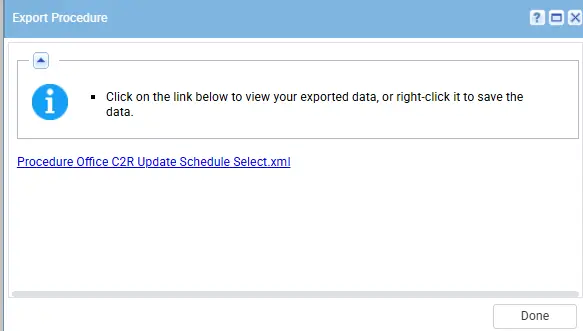
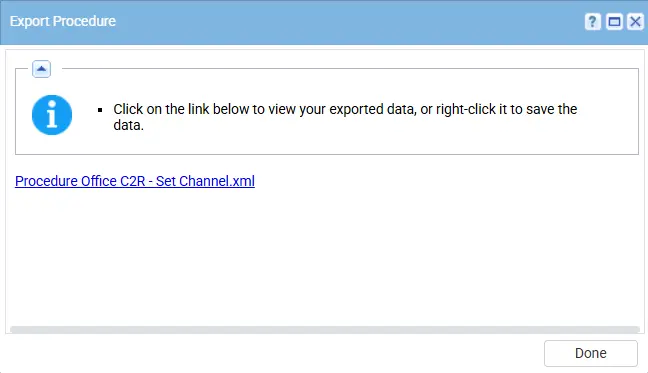
QA - Update
Audited the changes and fixed the document
Updated them with latest images and correct names
Added Solution URL
Updated solution document to show info about CF

diff --git a/docs/vsa/procedures/office-c2r-set-channel.md b/docs/vsa/procedures/office-c2r-set-channel.md
@@ -12,44 +12,42 @@ unlisted: false
 
 ## Summary
 
-This document provides a detailed guide on how to set the Microsoft Update Channel for a Click2Run Office installation on an endpoint using an agent procedure that contains a PS1 and it will ask for the variable at the scritp run time. It includes a summary, example agent procedure logs, and expected output for successful execution.
+This document provides a detailed guide on how to set the Microsoft Update Channel for a Click2Run Office installation on an endpoint using an agent procedure that contains a PS1 and it will ask for the variable at the script run time. 
 
 
 ## Dependencies
 
-PowerShell 5.0+
-PS1
-Custom field
-
-[cpval office channel status](/docs/880a8d01-fc10-4ea9-94d8-7b2bb87c01a5)
+- PowerShell 5.0+
+- [Custom Field - cPVAL Office Channel Status](/docs/880a8d01-fc10-4ea9-94d8-7b2bb87c01a5)
+- [Solution - Microsoft365 Click-to-Run Solution](/docs/f8deaddc-02c1-492d-b9dc-381a653de0e5) 
 
 ## Process
 
-This script will modify the registry to set the Update Channel for Microsoft 365 products to the value specified in the variable(Beta Channel OR Current Channel OR Monthly Enterprise Channel OR Semi-Annual Enterprise Channel and None) and at the time of script execution on the VSA agent procedure, it will ask for the required channel settings and then it will check the current configured channel and update the result into the Custom field.
+This script will modify the registry to set the Update Channel for Microsoft 365 products to the value specified in the variable(*Beta Channel* OR *Current Channel* OR *Monthly Enterprise Channel* OR *Semi-Annual Enterprise Channel* and *None*). At the time of script execution on the VSA agent procedure, it will ask for the required channel settings and will check the current configured channel. It will then update the result into the custom field accordingly.
 
 
 ## Implementation
 
 1. Export the agent procedure from ProVal's VSA RMM instance.  
-   **Name:** Office C2R Update Channel Status 
-   ![Image](../../../static/img/docs/d401a54a-5bff-4d37-8fdf-001220f73fb5/E.webp)  
+   **Name:** `Office C2R set Channel`   
+   ![Image](../../../static/img/docs/d401a54a-5bff-4d37-8fdf-001220f73fb5/E.webp)    
    The export will download the necessary XML file.  
-   ![Image](../../../static/img/docs/d401a54a-5bff-4d37-8fdf-001220f73fb5/AE.webp)  
+  
    
-2. Import this XML file into the partner's VSA RMM instance.  
-   ![Image](../../../static/img/docs/d401a54a-5bff-4d37-8fdf-001220f73fb5/3.webp) 
+2. Import this XML file into the partner's VSA RMM instance.    
+   ![Image](../../../static/img/docs/d401a54a-5bff-4d37-8fdf-001220f73fb5/3.webp)  
 
-3. Export the PS1 from the Proval Internal VSA
-   ![Image](../../../static/img/docs/d401a54a-5bff-4d37-8fdf-001220f73fb5/51.webp)
+3. Export the PS1 from the ProVal's Internal VSA  
+   ![Image](../../../static/img/docs/d401a54a-5bff-4d37-8fdf-001220f73fb5/51.webp)  
 
-4. Mapped it into the script in the client environment
-   ![Image](../../../static/img/docs/d401a54a-5bff-4d37-8fdf-001220f73fb5/52.webp) 
+4. Mapped it into the script in the client environment  
+   ![Image](../../../static/img/docs/d401a54a-5bff-4d37-8fdf-001220f73fb5/52.webp)   
 
-5. Execute the agent procedure in the partne's VSA RMM and put the channel details that you want to set:
-   ![Image](../../../static/img/docs/d401a54a-5bff-4d37-8fdf-001220f73fb5/Execution.webp)
+5. Execute the agent procedure in the partner's VSA RMM and put the channel details that you want to set:  
+   ![Image](../../../static/img/docs/d401a54a-5bff-4d37-8fdf-001220f73fb5/Execution.webp)  
 
-6. Once the above script will execute then it will check the channel status and update the custom field as well on the machines.
+6. After execution, the script validates the device’s channel status and updates the associated custom field accordingly.  
 
 ## Output
 
-Agent procedure log 
+- Agent procedure log 

diff --git a/docs/vsa/procedures/office-c2r-update.md b/docs/vsa/procedures/office-c2r-update.md
@@ -14,34 +14,33 @@ unlisted: false
 
 This agent procedure is for performing an on-demand update for Click2Run Office installations on endpoints using an agent procedure. It includes example logs, dependencies, and output details to assist in the execution and troubleshooting of the update process.
 
+**Please note it will close all office packages open on the endpoints while performing an update.**
+
 ## Dependencies
 
-PowerShell 5.0+
-
-## Process
-
-This document outlines the process to update the Office Click2Run on an endpoint. When anyone executes the script on the endpoints, it will perform the update. Please note it will close all office packages open on the endpoints.
+- PowerShell 5.0+
+- [Solution - Microsoft365 Click-to-Run Solution](/docs/f8deaddc-02c1-492d-b9dc-381a653de0e5) 
 
 ## Implementation
 
 1. Export the agent procedure from ProVal's VSA RMM instance.  
-   **Name:** Office C2R Update Channel Status 
+   **Name:** `Office C2R Update`   
    ![Image](../../../static/img/docs/ddcdb6e8-8ce6-4c38-b494-1284f0fc6fd8/21.webp)  
    The export will download the necessary XML file.  
    ![Image](../../../static/img/docs/ddcdb6e8-8ce6-4c38-b494-1284f0fc6fd8/22.webp)  
    
-2. Import this XML file into the partner's VSA RMM instance.  
+2. Import this XML file into the partner's VSA RMM instance.   
    ![Image](../../../static/img/docs/ddcdb6e8-8ce6-4c38-b494-1284f0fc6fd8/3.webp)  
 
-3. Export the PS1 from the Proval Internal VSA
-   ![Image](../../../static/img/docs/ddcdb6e8-8ce6-4c38-b494-1284f0fc6fd8/91.webp)
+3. Export the PS1 from the ProVal Internal VSA   
+   ![Image](../../../static/img/docs/ddcdb6e8-8ce6-4c38-b494-1284f0fc6fd8/91.webp)  
 
-4. Map it into the script in the client environment
+4. Map it into the script in the client's environment  
    ![Image](../../../static/img/docs/ddcdb6e8-8ce6-4c38-b494-1284f0fc6fd8/92.webp) 
 
-5. Execute the agent procedure in the partner's VSA RMM:
+5. Execute the agent procedure in the partner's VSA RMM:  
    ![Image](../../../static/img/docs/ddcdb6e8-8ce6-4c38-b494-1284f0fc6fd8/23.webp)
 
 ## Output
 
-Agent Procedure log
+- Agent Procedure log

diff --git a/docs/solutions/microsoft365-c2r-solution.md b/docs/solutions/microsoft365-c2r-solution.md
@@ -12,15 +12,15 @@ unlisted: false
 
 ## Purpose
 
-The aim is to get the office channel details, update and repair the c2r and set the channel on the machines.
+The aim of this VSA solution is to get the office channel details, update, repair the C2R and set the channel on the machines.
 
 ## Associated Content
 
 | Content                                             | Type                                                      | Function                                               |
 |-----------------------------------------------------|-----------------------------------------------------------|--------------------------------------------------------|
-| Link to the documentation of the content piece      | What is the type of content? (Script, Custom Table, VSA Policy, CWM Dataview, etc.) | What does this content piece do in the overall solution? |
-|[Office C2R Update Channel Status](/docs/880a8d01-fc10-4ea9-94d8-7b2bb87c01a5) | Custom Field | Stores the C2R Office version installed on the machine|
-|[Office C2R Set Channel](/docs/d401a54a-5bff-4d37-8fdf-001220f73fb5) | Agent Procedure | This agent procedure will set the required channel configuration on the machine |
+|[cPVAL Office Channel Status](/docs/880a8d01-fc10-4ea9-94d8-7b2bb87c01a5) | Custom Field | This custom field contains the office channel status of the machines.|
+|[Office C2R Update Channel Status](/docs/880a8d01-fc10-4ea9-94d8-7b2bb87c01a5) | Agent Procedure | This agent procedure is used to check the Channel Status on to the machine for Microsoft Office and update the result into a Custom field.|
+|[Office C2R Set Channel](/docs/d401a54a-5bff-4d37-8fdf-001220f73fb5) | Agent Procedure | Sets the Microsoft Update Channel for a Click2Run Office installation on an endpoint. |
 |[Office C2R Automatic Update Repair](/docs/c0c1b5a3-0e2d-4ed9-9c0a-926ce2181c7c) | Agent Procedure | To reapair the microsoft365 office quick\full repair |
 |[Office C2R Update](/docs/ddcdb6e8-8ce6-4c38-b494-1284f0fc6fd8) | Agent procedure | Click to run update on all the office applications |
 

diff --git a/docs/vsa/procedures/office-c2r-automatic-update-repair.md b/docs/vsa/procedures/office-c2r-automatic-update-repair.md
@@ -16,14 +16,14 @@ This document outlines the process to repair the Office Click2Run Automatic Upda
 
 ## Dependencies
 
-PowerShell 5.0+
-PS1
+- PowerShell 5.0+
+- [Solution - Microsoft365 Click-to-Run Solution](/docs/f8deaddc-02c1-492d-b9dc-381a653de0e5) 
 
 
 ## Implementation
 
-1. Export the agent procedure from ProVal's VSA RMM instance.  
-   **Name:** Office C2R Update Channel Status 
+1. Export the agent procedure from ProVal's VSA RMM instance.   
+   **Name:** `Office C2R Automatic Update Repair`   
    ![Image](../../../static/img/docs/c0c1b5a3-0e2d-4ed9-9c0a-926ce2181c7c/11.webp)  
    The export will download the necessary XML file.  
    ![Image](../../../static/img/docs/c0c1b5a3-0e2d-4ed9-9c0a-926ce2181c7c/12.webp)  
@@ -31,10 +31,10 @@ PS1
 2. Import this XML file into the partner's VSA RMM instance.  
    ![Image](../../../static/img/docs/c0c1b5a3-0e2d-4ed9-9c0a-926ce2181c7c/3.webp)  
 
-3. Export the PS1 from the Proval Internal VSA
+3. Export the PS1 from the Proval Internal VSA  
    ![Image](../../../static/img/docs/c0c1b5a3-0e2d-4ed9-9c0a-926ce2181c7c/61.webp)
 
-4. Mapped it into the script in the client environment
+4. Map it into the script in the client's environment  
    ![Image](../../../static/img/docs/c0c1b5a3-0e2d-4ed9-9c0a-926ce2181c7c/62.webp) 
 
 5. Execute the agent procedure in the partne's VSA RMM and put the Repair type that you want to do:
@@ -42,4 +42,4 @@ PS1
 
 ## Output
 
-Agent Procedure History Log
+- Agent Procedure History Log

diff --git a/docs/vsa/custom-fields/cpval-office-channel-status.md b/docs/vsa/custom-fields/cpval-office-channel-status.md
@@ -16,7 +16,8 @@ This custom field contains the office channel status of the machines.
 
 ## Dependencies
 
-[Office C2R Update Channel Status](/docs/bf426f89-7da1-4f4b-88b7-03983136458c)
+- [Office C2R Update Channel Status](/docs/bf426f89-7da1-4f4b-88b7-03983136458c)
+- [Office C2R Set Channel](/docs/d401a54a-5bff-4d37-8fdf-001220f73fb5)
 
 ## Details
 
